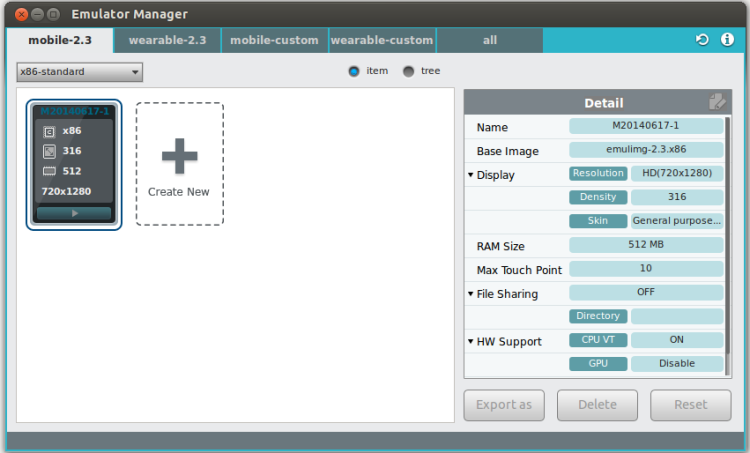
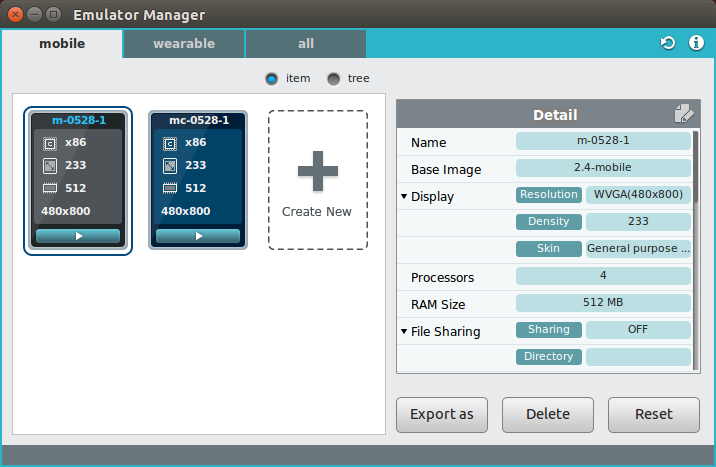
Emulator Manager: modify tab text to profile from profile-version
- change Emulator Manager main dialog screen shot

Changed region(s): [[0.0, 0.0, 1.0, 1.0], [0.3687, 0.5254, 0.4916, 0.5563], [0.5531, 0.4945, 0.6145, 0.5254]]

diff --git a/org.tizen.devtools/html/common_tools/emulator.htm b/org.tizen.devtools/html/common_tools/emulator.htm
@@ -69,7 +69,7 @@
 	<li>In Windows&reg;: <strong>Start &gt; All Programs &gt; Tizen SDK &gt; Emulator Manager</strong></li>
 </ul>
 </li>
-<li> Select your prefered profile tab, such as mobile-2.3 or wearable 2.3.</li>
+<li> Select your prefered profile tab, such as mobile or wearable.</li>
 <li> Select <strong>Create New</strong> and then click <strong>Confirm</strong>.</li>
 <li> Click the <strong>Launch</strong> button (<img alt="launch" src="../images/launch.png" />) or press the <strong>Enter</strong> keyboard key.</li>
 <li> To stop the Emulator, right-click the Emulator and select <strong>Close</strong>.</li>
@@ -95,7 +95,7 @@ src="../images/emulator_manager.png" /></p>
 
 <p>You can also create a new VM by <a href="#manager-cli">Emulator Manager CLI</a>. 
 
-<p>The created VM is added under the current tab. The name of tab, <span style="font-family: Courier New,Courier,monospace">&lt;Profile&gt;&lt;VERSION&gt;</span>, refers to the image version. You can create a VM by using custom image in the <strong>mobile-custom</strong> or <strong>wearable-custom</strong> tabs.</p>
+<p>The created VM is added under the current tab. The name of tab, <span style="font-family: Courier New,Courier,monospace">&lt;Profile&gt;</span>, refers to the image profile. You can create a VM by using custom image in <strong>Base Image</strong> of detail view. Background color of custom VM is blue.</p>
 
 <p>You can also export a base image of VM and manipulate VM:
 <ul>
